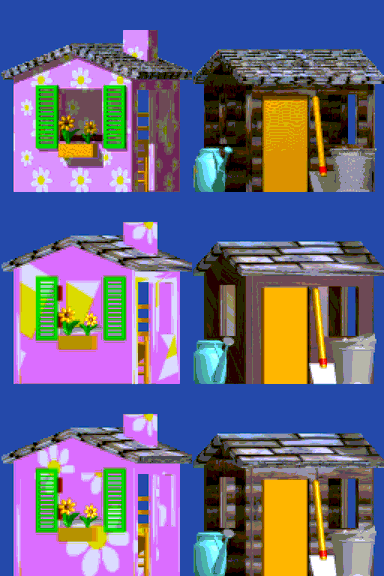
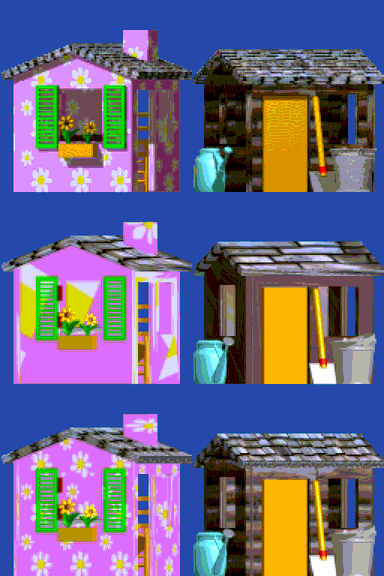
fix(models): a texture map's repeats are baked into its image; the house's flowers at their size
Ray Dream repeats a tile-1 map cnth x cntv times over its domain; only the
primitives (the lollipop's cylinder) did. shading.texture_map now bakes the
repeats for every mapping: the house's facade (cnth 3 cntv 3) shows its flowers
at the sprite's size, match 0.808 -> 0.831; the cabin 0.901 -> 0.903 (colour).
The toys and the lollipop are unchanged; the trees plante2a-c would gain 0.0015
for 8 MB of textures and are not re-exported.

Changed region(s): [[0.0, 0.7188, 1.0, 1.0]]

diff --git a/tools/rd4_to_gltf/shading.py b/tools/rd4_to_gltf/shading.py
@@ -150,7 +150,7 @@ class TextureMap:
     domain: tuple            # primary domain bbox (u0, v0, u1, v1)
     quarter_turns: int       # rotc
     warnings: list
-    counts: tuple = (1, 1)   # cnth, cntv: repeats across and along (tile 1)
+    counts: tuple = (1, 1)   # cnth, cntv: repeats across and along (tile 1), baked into image
     flips: tuple = (False, True)  # flph, flpv
 
 
@@ -256,8 +256,12 @@ def texture_map(scene: sc.Scene, obj: sc.Obj) -> TextureMap | None:
     counts = (int(placement.get("cnth") or 1), int(placement.get("cntv") or 1)) \
         if placement.get("tile") == "1" else (1, 1)
     flips = (placement.get("flph") == "1", placement.get("flpv") == "1")
-    return TextureMap(_tone_image((rgb * 255).round().astype(np.uint8)), (u0, v0, u1, v1),
-                      int(placement.get("rotc") or 0), warnings, counts, flips)
+    # The repeats (tile 1) baked into the image, so every mapping keeps its coordinates in [0, 1]:
+    # the house's flower paper (Explo/maison.rd4, cnth 3 cntv 3) matches its sprite at 0.831 so,
+    # 0.808 once; the cabin 0.903 against 0.901; the lollipop's cylinder as before.
+    image = _tone_image((rgb * 255).round().astype(np.uint8))
+    image = np.tile(image, (counts[1], counts[0], 1))
+    return TextureMap(image, (u0, v0, u1, v1), int(placement.get("rotc") or 0), warnings, counts, flips)
 
 
 def _white_texels(scene: sc.Scene, smap: rd4.Chunk) -> np.ndarray | None:
@@ -502,8 +506,8 @@ def primitive_texture(tex: TextureMap, kind: str, positions: np.ndarray, normals
     a tight many-turn spiral), the lollipop Blupi holds is unchanged (234-236: 0.850 / 0.851).
     Spheres and cones take the same rule: a sphere's latitude from its -Z pole, a cone's base
     from its centre then its side to the apex. The map's repeats are baked into the image (so
-    ``t`` stays in [0, 1]); flips apply; the other placements (rotc) are not read. Returns None
-    for cubes (``cube_texture``) and other primitives."""
+    ``t`` stays in [0, 1]; ``texture_map`` does it); flips apply; the other placements (rotc) are
+    not read. Returns None for cubes (``cube_texture``) and other primitives."""
     import primitives
     x, y, z = positions.T
     s = np.mod(np.arctan2(y, x) / (2 * np.pi), 1.0)
@@ -530,8 +534,7 @@ def primitive_texture(tex: TextureMap, kind: str, positions: np.ndarray, normals
     flph, flpv = tex.flips
     s = 1.0 - s if flph else s
     t = 1.0 - t if flpv else t
-    cnth, cntv = tex.counts
-    return np.tile(tex.image, (cntv, cnth, 1)), np.stack([s, np.clip(t, 0.0, 1.0)], axis=1)
+    return tex.image, np.stack([s, np.clip(t, 0.0, 1.0)], axis=1)
 
 
 def ascii_name(name: str) -> str:

diff --git a/tools/rd4_to_gltf/README.md b/tools/rd4_to_gltf/README.md
@@ -102,6 +102,7 @@ Each was checked numerically, not assumed.
 | Hot point `hp` (local, after the `affi` deformer) lands on `po`; the object rotates about it | DXF match below |
 | `Scal` scales only the object's own geometry; a child's `po` is in the parent's unscaled frame | arm segments: elbow at `hp - po` = 3.725 vs. segment length 3.741 |
 | A free-form's cross-section x, its y and the path's tangent form a right-handed frame (`freeform_mesh.tessellate`) | the bird's body (`oiseau.rd4`) is a side profile swept through its thickness: only so is its head under its eyes (side icons 90-105 IoU 0.854 against 0.742); Blupi's symmetric sections do not tell (`marche-profil` 0.9806 both ways, face colour 0.906 / 0.907) |
+| A texture map's repeats (`tile 1`: `cnth` across, `cntv` along) are baked into its image (`shading.texture_map`), so free-forms (sides and caps) repeat it as primitives always did | the house's flower paper (`Explo/maison.rd4`, `cnth 3 cntv 3`) at the sprite's flower size, match 0.808 -> 0.831; the cabin 0.901 -> 0.903 (colour), the trees `plante2a-c` +0.0015; the lollipop and the toys (primitives) unchanged |
 | A texture map on a prism's flat end caps (a straight sweep: two rings; `freeform_mesh.planar_caps`): the whole image laid flat over the cap's section, s along the section's x, t along its y, over their extent, then `flph`/`flpv`; the caps are kept out of `split_seam` (their s is no angle). Other free-forms keep the meridian rule | the teleporters' letter panels (`Decor/teleporteur1-4.rd4`, prisms seen end on, `flph 1 flpv 1 rotc 0`) show their letters as tiles 330-333 do only so; the other seven orientations score lower on both letters tried (colour 0.588 and 0.591 against at most 0.587 and 0.590) |
 | A free-form whose primary domain keeps a colour while rectangle/oval domains carry texture maps (`shading.freeform_texture`): one atlas over (around, along) = (perimeter, path length), the domains' `bbox` as (around, along, around, along) with "around" running against the section loop, an image's columns along the path, its `cnth`/`cntv` repeats inside the rectangle | the bulldozer's blade (`tracks-profil.rd4`): its hazard stripes land on the curved front face in the front icons 60-63 only so (along the loop they sat on the flat face toward the cab; columns around gave smeared stripes) |
 | The sprites of animated objects include the scene's end key, one frame past what Ray Dream renders (`build_object_library.setup_scene`) | the bird's raised wings (icons 96, 97, 104, 105) are its last key: IoU 0.83-0.95 there against 0.67-0.72 at the last rendered frame; the wasp (`guepe.rd4`) 0.839 -> 0.955, the eyed creature 0.970 -> 0.995 |
